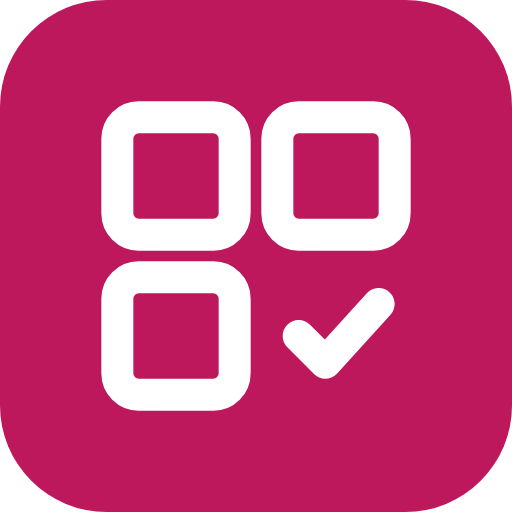
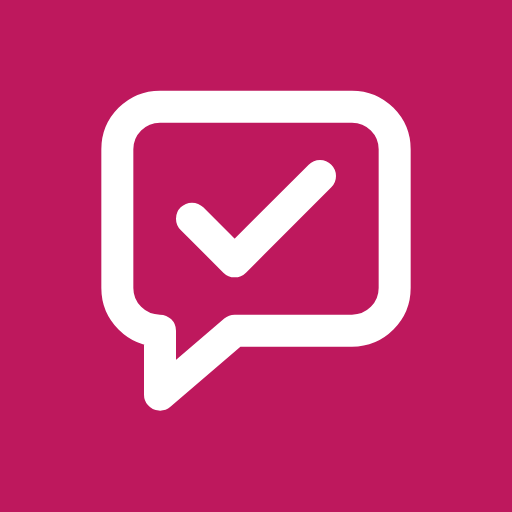
Ассистент: переименование и значок, поручения текстом и голосом (pult_inbox), отметки встреч, «Сделано» у поручений
Claude-Session: https://claude.ai/code/session_019A1aijabwY8ZyHGtL4drXb

diff --git a/app.js b/app.js
@@ -5,7 +5,7 @@
 const CFG = {
   url: 'https://ikxmzapfmgqnnrsttuxc.supabase.co',
   key: 'sb_publishable_T8ccLgWCaguS1EABck2d0A_-KnjFd9K', // публичный ключ, доступ режет RLS
-  version: '0.5.1',
+  version: '0.6.0',
   tz: 'Asia/Omsk',
   nightFrom: 22.5, // снимок почты ночью не обновляется: 22:30-07:30 по Омску плашку не краснеем
   nightTo: 7.5,
@@ -31,6 +31,16 @@ const omskHour = () => {
 };
 const evDay = (e) => (e.all_day ? e.start.slice(0, 10) : dayKey(new Date(e.start)));
 const evTime = (e) => (e.all_day ? 'весь день' : hhmm(new Date(e.start)) + '-' + hhmm(new Date(e.end)));
+// Отметка встречи: «прошла» или «не было». Ключ = начало + название (у повторяющихся встреч начало разное)
+const evKey = (e) => (e.start + '|' + e.title).slice(0, 400);
+const evIndex = new Map();
+function evLine(e) {
+  const k = evKey(e), mk = state.marks?.[k];
+  evIndex.set(k, e);
+  const btn = mk ? `<button class="ghost small" data-unmark="${esc(k)}" aria-label="Снять отметку">${mk === 'прошла' ? '✓ прошла' : '✕ не было'}</button>`
+    : new Date(e.start) <= new Date() ? `<button class="ghost small" data-mark="прошла" data-k="${esc(k)}">✓ прошла</button><button class="ghost small" data-mark="не было" data-k="${esc(k)}" aria-label="Не было">✕</button>` : '';
+  return `<li class="row"><div class="grow${mk ? ' done' : ''}"><b>${esc(evTime(e))}</b> ${esc(e.title)}</div>${btn}</li>`;
+}
 
 // ---------- кэш для офлайна ----------
 const cache = {
@@ -38,13 +48,13 @@ const cache = {
   set(v) { try { localStorage.setItem('pult.cache', JSON.stringify(v)); } catch { /* нет места или приватный режим */ } },
 };
 
-let state = { layout: null, versions: [], tasks: [], mail: null, settings: null, cal: null, calError: null, orders: null, offline: false };
+let state = { layout: null, versions: [], tasks: [], mail: null, settings: null, cal: null, calError: null, orders: null, inbox: null, marks: {}, offline: false };
 
 // ---------- загрузка ----------
 async function load() {
   const old = cache.get();
   const since = new Date(Date.now() - 2 * 864e5).toISOString();
-  const [lay, tasks, mail, set, cal, orders] = await Promise.all([
+  const [lay, tasks, mail, set, cal, orders, inbox, marks] = await Promise.all([
     sb.from('pult_layout').select('version,created_at,note,modules').order('version', { ascending: false }).limit(20),
     sb.from('pult_tasks').select('*').or(`done_at.is.null,done_at.gt.${since}`).order('due_at', { ascending: true, nullsFirst: false }),
     sb.from('pult_mail_snapshot').select('*').order('taken_at', { ascending: false }).limit(1),
@@ -53,6 +63,9 @@ async function load() {
     sb.from('asst_orders').select('id,created_at,body,route,status,due_at,result,needs_yes,closed_at')
       .or(`closed_at.is.null,closed_at.gt.${new Date(Date.now() - 7 * 864e5).toISOString()}`)
       .order('created_at', { ascending: false }).limit(100),
+    sb.from('pult_inbox').select('id,created_at,body,via,taken_at,order_id,note')
+      .or(`taken_at.is.null,created_at.gt.${since}`).order('created_at', { ascending: false }).limit(50),
+    sb.from('pult_event_marks').select('event_key,mark').gte('start_at', new Date(Date.now() - 10 * 864e5).toISOString()),
   ]);
   const netFail = [lay, tasks, mail].some((r) => r.error && /fetch|network/i.test(r.error.message || ''));
   state.offline = netFail;
@@ -68,6 +81,8 @@ async function load() {
   state.mail = mail.data[0] || null;
   state.settings = set.data[0] || { stale_after_minutes: 120 };
   state.orders = orders.error ? null : orders.data; // таблицу ведёт ассистент; нет таблицы - панель покажет заглушку
+  state.inbox = inbox.error ? null : inbox.data;
+  state.marks = marks.error ? (old.state?.marks || {}) : Object.fromEntries(marks.data.map((x) => [x.event_key, x.mark]));
   if (cal.error || cal.data?.error) {
     state.calError = (cal.data && cal.data.error) || 'календарь не ответил';
     state.cal = old.state?.cal || null;
@@ -88,7 +103,7 @@ R.today = (m) => {
   return `<div class="row"><div class="grow"><div class="big">${evs.length}</div><div class="mute">событий сегодня</div></div>
     <div class="grow"><div class="big" style="color:${due.length ? 'var(--red)' : 'inherit'}">${due.length}</div><div class="mute">дел на сегодня и просрочено</div></div>
     <div class="grow"><div class="big">${state.mail ? state.mail.reply_count : '-'}</div><div class="mute">писем ответить</div></div></div>
-    ${evs.length ? '<ul style="margin-top:10px">' + evs.map((e) => `<li><b>${esc(evTime(e))}</b> ${esc(e.title)}</li>`).join('') + '</ul>' : ''}`;
+    ${evs.length ? '<ul style="margin-top:10px">' + evs.map(evLine).join('') + '</ul>' : ''}`;
 };
 
 function urgency(t) {
@@ -149,7 +164,7 @@ function grouped(evs, empty) {
   const keys = Object.keys(by).sort();
   const warn = state.calError ? `<div class="banner org">Показаны сохранённые данные от ${hhmm(new Date(state.cal.fetched_at))}: ${esc(state.calError)}</div>` : '';
   if (!keys.length) return warn + `<p class="mute">${empty}</p>`;
-  return warn + keys.map((k) => `<div class="day">${esc(dayTitle(k))}</div><ul>${by[k].map((e) => `<li><b>${esc(evTime(e))}</b> ${esc(e.title)}</li>`).join('')}</ul>`).join('')
+  return warn + keys.map((k) => `<div class="day">${esc(dayTitle(k))}</div><ul>${by[k].map(evLine).join('')}</ul>`).join('')
     + `<p class="mute">данные от ${hhmm(new Date(state.cal.fetched_at))}</p>`;
 }
 
@@ -162,8 +177,12 @@ function window7(days) {
 R.events = (m) => {
   const c = m.config || {};
   const word = (c.match || '').toLowerCase();
-  const evs = window7(c.days || 7).filter((e) => !word || e.title.toLowerCase().includes(word));
-  return grouped(evs, word ? `Нет событий со словом «${esc(c.match)}»` : 'Событий нет');
+  const fit = (e) => !word || e.title.toLowerCase().includes(word);
+  const evs = window7(c.days || 7).filter(fit);
+  const today = dayKey(new Date()), from = dayKey(new Date(Date.now() - 3 * 864e5));
+  const past = (state.cal?.events || []).filter((e) => fit(e) && !e.all_day && evDay(e) < today && evDay(e) >= from && !state.marks?.[evKey(e)]);
+  const ask = past.length ? `<div class="banner org">Отметь прошедшие встречи</div><ul>${past.map((e) => evLine(e).replace('<b>', `<b>${esc(dayTitle(evDay(e)))}, `)).join('')}</ul>` : '';
+  return ask + grouped(evs, word ? `Нет событий со словом «${esc(c.match)}»` : 'Событий нет');
 };
 
 R.shifts = (m) => {
@@ -192,7 +211,7 @@ R.calendar = (m) => {
   }
   const list = by[sel] || [];
   return `<div class="cal">${cells}</div><div class="day">${esc(dayTitle(sel))}</div>
-    <ul>${list.map((e) => `<li><b>${esc(evTime(e))}</b> ${esc(e.title)}</li>`).join('') || '<li class="mute">Событий нет</li>'}</ul>
+    <ul>${list.map(evLine).join('') || '<li class="mute">Событий нет</li>'}</ul>
     <p class="mute">данные от ${hhmm(new Date(state.cal.fetched_at))}</p>`;
 };
 $('board').addEventListener('click', (ev) => {
@@ -203,13 +222,20 @@ $('board').addEventListener('click', (ev) => {
 });
 
 // Поручения ассистента (таблица asst_orders, пишет только ассистент)
+let orderDraft = '', orderVia = 'текст';
+const orderForm = () => `<form data-form="order"><p><textarea name="body" rows="3" maxlength="2000" placeholder="Поручение: что сделать, кому, к какому сроку">${esc(orderDraft)}</textarea></p>
+    <p class="row"><button type="button" class="ghost" data-act="mic">🎤 Голосом</button><button>Поручить</button></p><p class="mute" id="micMsg"></p></form>`;
+function inboxList() {
+  const wait = (state.inbox || []).filter((x) => !x.taken_at || (!x.order_id && x.note));
+  return wait.length ? `<ul>${wait.map((x) => `<li><div>${esc(x.body)}</div><div class="mute">${x.via === 'голос' ? '🎤 ' : ''}${hhmm(new Date(x.created_at))} · ${x.taken_at ? esc(x.note || 'не взято') : 'ждёт разбора ассистентом'}</div></li>`).join('')}</ul>` : '';
+}
 R.orders = (m) => {
-  if (!state.orders) return '<p class="mute">Журнал поручений пока недоступен.</p>';
+  if (!state.orders) return orderForm() + inboxList() + '<p class="mute">Журнал поручений пока недоступен.</p>';
   const open = state.orders.filter((o) => !o.closed_at).sort((a, b) => (b.needs_yes - a.needs_yes) || String(a.due_at || '9').localeCompare(String(b.due_at || '9')));
   const closed = state.orders.filter((o) => o.closed_at);
-  const line = (o) => `<li><div class="row"><div class="grow" style="white-space:nowrap;overflow:hidden;text-overflow:ellipsis">${esc(o.body)}</div>${o.needs_yes ? '<span class="tag red">нужно твоё да</span>' : ''}</div>
+  const line = (o) => `<li><div class="row"><div class="grow" style="white-space:nowrap;overflow:hidden;text-overflow:ellipsis">${esc(o.body)}</div>${o.needs_yes ? '<span class="tag red">нужно твоё да</span>' : ''}<button class="ghost small" data-order-done="${o.id}">✓ Сделано</button></div>
       <div class="mute">${esc(o.route)} · ${esc(o.status)}${o.due_at ? ' · до ' + esc(dayTitle(dayKey(new Date(o.due_at)))) + ' ' + hhmm(new Date(o.due_at)) : ''}</div></li>`;
-  return `<div class="row"><div class="grow"><div class="big">${open.length}</div><div class="mute">открыто</div></div>
+  return orderForm() + inboxList() + `<div class="row"><div class="grow"><div class="big">${open.length}</div><div class="mute">открыто</div></div>
       <div class="grow"><div class="big" style="color:${open.some((o) => o.needs_yes) ? 'var(--red)' : 'inherit'}">${open.filter((o) => o.needs_yes).length}</div><div class="mute">ждут твоего да</div></div></div>
     <ul style="margin-top:8px">${open.map(line).join('') || '<li class="mute">Открытых поручений нет</li>'}</ul>
     ${closed.length ? `<details><summary class="mute">Закрыто за 7 дней: ${closed.length}</summary><ul>${closed.map((o) => `<li><div>${esc(o.body)}</div><div class="mute">${esc(o.status)}${o.result ? ' · ' + esc(o.result) : ''}</div></li>`).join('')}</ul></details>` : ''}`;
@@ -230,6 +256,63 @@ function renderBoard() {
     <p class="row"><button data-act="pk-on">Включить Face ID</button><button class="ghost" data-act="pk-later">Не сейчас</button></p></div>`);
   $('offline').classList.toggle('hidden', !state.offline);
 }
+
+// ---------- отметки встреч ----------
+$('board').addEventListener('click', async (ev) => {
+  const mk = ev.target.closest('[data-mark]'), un = ev.target.closest('[data-unmark]');
+  if (!mk && !un) return;
+  const k = (mk || un).dataset[mk ? 'k' : 'unmark'], prev = state.marks[k];
+  if (mk) {
+    const e = evIndex.get(k);
+    state.marks[k] = mk.dataset.mark; renderBoard();
+    const { error } = await sb.from('pult_event_marks').upsert({ event_key: k, title: e.title.slice(0, 300), start_at: e.start, mark: mk.dataset.mark });
+    if (error) { state.marks[k] = prev; renderBoard(); alert('Отметка не сохранилась: ' + error.message); }
+  } else {
+    delete state.marks[k]; renderBoard();
+    const { error } = await sb.from('pult_event_marks').delete().eq('event_key', k);
+    if (error) { state.marks[k] = prev; renderBoard(); alert('Не снялось: ' + error.message); }
+  }
+});
+
+// ---------- поручения ассистенту ----------
+$('board').addEventListener('click', async (ev) => {
+  const b = ev.target.closest('[data-order-done]');
+  if (!b) return;
+  const o = state.orders.find((x) => x.id === Number(b.dataset.orderDone));
+  if (!o || !confirm('Отметить сделанным: «' + o.body.slice(0, 80) + '»?')) return;
+  const { error } = await sb.from('asst_orders').update({ status: 'сделано' }).eq('id', o.id).is('closed_at', null);
+  if (error) return alert('Не отметилось: ' + error.message);
+  await refresh();
+});
+$('board').addEventListener('input', (ev) => { if (ev.target.closest('[data-form="order"]')) orderDraft = ev.target.value; });
+$('board').addEventListener('submit', async (ev) => {
+  const f = ev.target.closest('[data-form="order"]');
+  if (!f) return;
+  ev.preventDefault();
+  const body = f.body.value.trim();
+  if (!body) return;
+  const b = f.querySelector('button:not([type])'); b.disabled = true;
+  const { error } = await sb.from('pult_inbox').insert({ body, via: orderVia });
+  b.disabled = false;
+  if (error) return alert('Поручение не ушло: ' + error.message);
+  orderDraft = ''; orderVia = 'текст';
+  await refresh();
+});
+let rec = null;
+$('board').addEventListener('click', (ev) => {
+  if (!ev.target.closest('[data-act="mic"]')) return;
+  const ta = $('board').querySelector('[data-form="order"] textarea'), msg = $('micMsg');
+  const SR = window.SpeechRecognition || window.webkitSpeechRecognition;
+  const fallback = () => { ta.focus(); msg.textContent = 'Нажми микрофон на клавиатуре iPhone и говори.'; orderVia = 'голос'; };
+  if (rec) { rec.stop(); return; }
+  if (!SR) return fallback();
+  const base = ta.value ? ta.value.trim() + ' ' : '';
+  rec = new SR(); rec.lang = 'ru-RU'; rec.interimResults = true; rec.continuous = true;
+  rec.onresult = (e) => { ta.value = base + Array.from(e.results).map((r) => r[0].transcript).join(''); orderDraft = ta.value; orderVia = 'голос'; };
+  rec.onerror = (e) => { rec = null; if (e.error !== 'no-speech' && e.error !== 'aborted') fallback(); };
+  rec.onend = () => { rec = null; msg.textContent = ta.value ? 'Проверь текст и нажми «Поручить».' : ''; };
+  try { rec.start(); msg.textContent = 'Слушаю. Нажми «🎤 Голосом» ещё раз, чтобы закончить.'; } catch { rec = null; fallback(); }
+});
 
 // ---------- дела ----------
 $('board').addEventListener('submit', async (ev) => {

diff --git a/sw.js b/sw.js
@@ -1,5 +1,5 @@
 // Сеть первой (чтобы обновления приходили сразу), кэш - запасной вариант без интернета.
-const V = 'pult-shell-v0.5.1';
+const V = 'pult-shell-v0.6.0';
 const SHELL = ['./', 'index.html', 'app.js', 'manifest.webmanifest', 'icon.svg', 'icon-180.png', 'vendor/supabase.js'];
 self.addEventListener('install', (e) => { e.waitUntil(caches.open(V).then((c) => c.addAll(SHELL.map((u) => new Request(u, { cache: 'reload' })))).then(() => self.skipWaiting())); });
 self.addEventListener('activate', (e) => { e.waitUntil(caches.keys().then((ks) => Promise.all(ks.filter((k) => k !== V).map((k) => caches.delete(k)))).then(() => self.clients.claim())); });
@@ -14,7 +14,7 @@ self.addEventListener('fetch', (e) => {
 
 // Уведомления о напоминаниях (присылает функция pult-push)
 self.addEventListener('push', (e) => {
-  let d = { title: 'Пульт', body: '' };
+  let d = { title: 'Ассистент', body: '' };
   try { d = e.data.json(); } catch { /* пустое уведомление */ }
   e.waitUntil(self.registration.showNotification(d.title, { body: d.body, icon: 'icon-512.png', badge: 'icon-180.png', tag: 'pult-remind' }));
 });

diff --git a/index.html b/index.html
@@ -3,10 +3,10 @@
 <head>
 <meta charset="utf-8">
 <meta name="viewport" content="width=device-width, initial-scale=1, viewport-fit=cover">
-<title>Пульт Михаила</title>
+<title>Ассистент Михаила</title>
 <meta name="theme-color" content="#be185d">
 <meta name="apple-mobile-web-app-capable" content="yes">
-<meta name="apple-mobile-web-app-title" content="Пульт">
+<meta name="apple-mobile-web-app-title" content="Ассистент">
 <meta name="apple-mobile-web-app-status-bar-style" content="default">
 <link rel="manifest" href="manifest.webmanifest">
 <link rel="icon" href="icon.svg" type="image/svg+xml">
@@ -57,7 +57,7 @@ input,select,textarea{width:100%;padding:10px;border:1px solid var(--line);borde
 </head>
 <body>
 <header>
-  <h1>Пульт</h1>
+  <h1>Ассистент</h1>
   <span id="offline" class="hidden">нет сети, показаны сохранённые данные</span>
   <button class="ghost small hidden" id="btnSettings" aria-label="Настройка панелей">Панели</button>
 </header>
